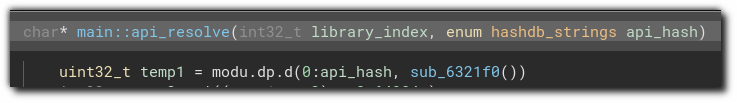
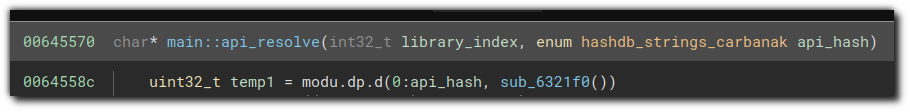
docs: Update readme for style, refresh usage screenshots

diff --git a/README.md b/README.md
@@ -1,16 +1,20 @@
-# Binary Ninja HashDB Plugin
+# #⃣ Binary Ninja HashDB Plugin
 
-[HashDB](https://github.com/OALabs/hashdb) is a community-sourced library of hashing algorithms used in malware. This plugin queries the [OALabs HashDB Lookup Service](https://hashdb.openanalysis.net/) for hash values which appear in the currently analyzed file, fetches a list of strings which match those hashes, and collects the string values into a type definition (e.g. an enum). The defined type can then be applied to the binary for further analysis.
+[HashDB](https://github.com/OALabs/hashdb) is a community-sourced library of hashing algorithms used in malware. This plugin queries the [OALabs HashDB Lookup Service](https://hashdb.openanalysis.net/) for hash values which appear in the currently analyzed file, fetches a list of strings which match those hashes, and collects the string values into an enum type definition. The defined enum type can then be applied to the binary for further analysis.
+
+## Usage
+
+### Looking up a hash (_HashDB - Hash Lookup_)
+
+The _HashDB - Hash Lookup_ command looks up the hash value highlighted by the cursor.
 
 ![](images/hashlookup-screenshot-border.png)
 
 ![](images/hashlookup-result-screenshot-border.png)
 
-## Usage
+### Hunting for the correct hash algorithm (_HashDB - Hunt_)
 
-### Hunting for the correct hash algorithm (`HashDB - Hunt`)
-
-The `HashDB - Hunt` command attempts to identify the hash algorithm which was used to generate a particular hash value.
+The _HashDB - Hunt_ command attempts to identify the hash algorithm which was used to generate a particular hash value. The identified algorithm is set as the default algorithm for future hash lookups in this binary, in the _HashDB > HashDB Hash Algorithm_ setting.
 
 ![](images/hash-hunt-multiple-options-screenshot-border.png)
 
@@ -18,9 +22,7 @@ It is the user's responsibility to ensure that the identified hash algorithm is 
 
 ### Viewing and applying found hashes
 
-Found hashes are added as enum entries under the `hashdb_strings` enum type, and can be viewed in the _Types_ menu. The resolved hash string is set as the name of the enum entry.
-
-All newly found hashes are appended as enum entries to this type.
+Found hashes are added as enum entries under a new enum type named `hashdb_strings_{NAME_OF_ALGORITHM}`. The names and values of the found hashes can be viewed in the _Types_ menu.
 
 ![](images/hash-created-enum-screenshot-border.png)
 
@@ -32,7 +34,8 @@ If you are using Binary Ninja >= 3.3, you can also apply the resolved hash names
 
 ![](images/hash-enum-selection-dialog-screenshot-border.png)
 
-The name of the enum type created (by default `hashdb_strings`) can be changed in Binary Ninja's settings, under _HashDB > HashDB Enum Name_.
+The name prefix used in the enum type (by default `hashdb_strings`) can be changed in Binary Ninja's settings, under _HashDB > HashDB Enum Name_.
+
 
 ### Settings
 
@@ -40,13 +43,13 @@ The settings for this plugin can be changed from Binary Ninja's Settings interfa
 
 The following settings are applied globally:
 
-- HashDB API URL (`hashdb.url`). If you wish to use a different HashDB instance than the default OALabs HashDB, such as an internally hosted version, you can change this setting to point at your desired instance.
-- HashDB Enum Name (`hashdb.enum_name`)
+- _HashDB API URL_ (`hashdb.url`). If you wish to use a different HashDB instance than the default OALabs HashDB, such as an internally hosted version, you can change this setting to point at your desired instance.
+- _HashDB Enum Name_ (`hashdb.enum_name`)
 
 The following settings are specific to an individual binary. They are saved in the analysis database (`.bndb` file) for that binary, and will be restored the next time you open the analysis database.
 
-- HashDB Hash Algorithm (`hashdb.algorithm`)
-- HashDB Hash Algorithm Data Type (`hashdb.algorithm_type`)
+- _HashDB Hash Algorithm_ (`hashdb.algorithm`)
+- _HashDB Hash Algorithm Data Type_ (`hashdb.algorithm_type`)
 
 ![](images/settings-screenshot-border.png)
 
